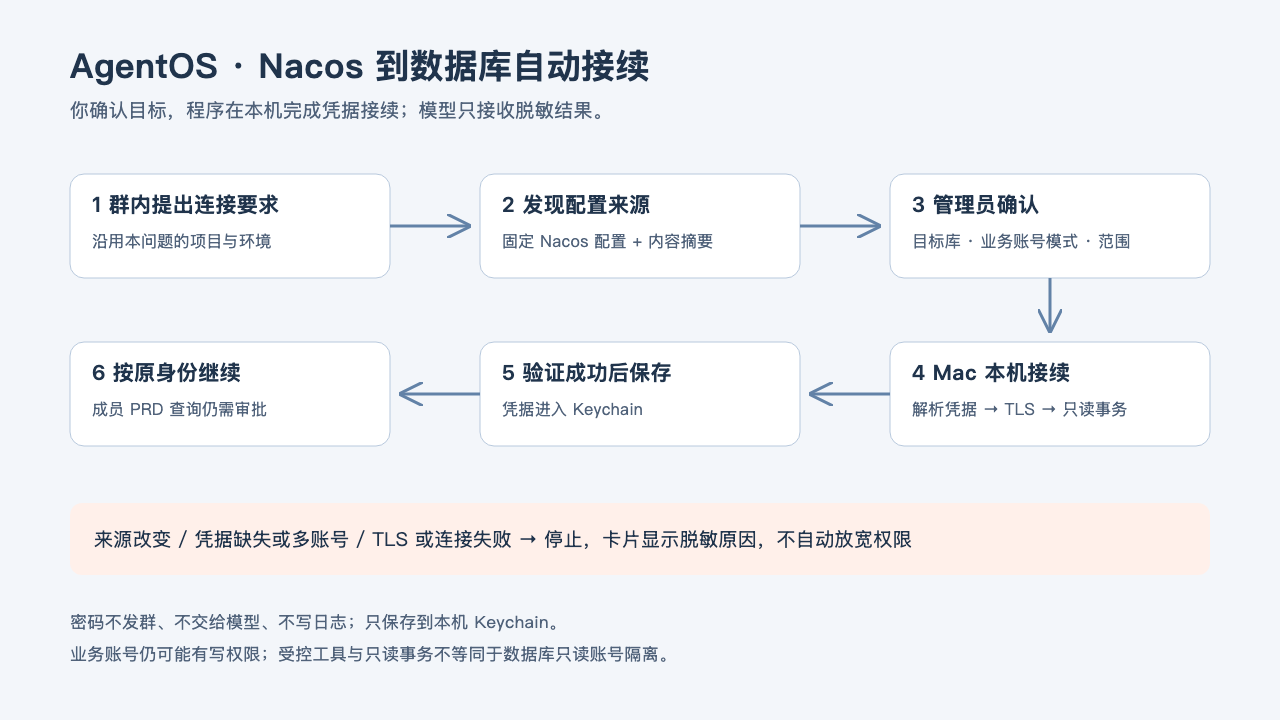
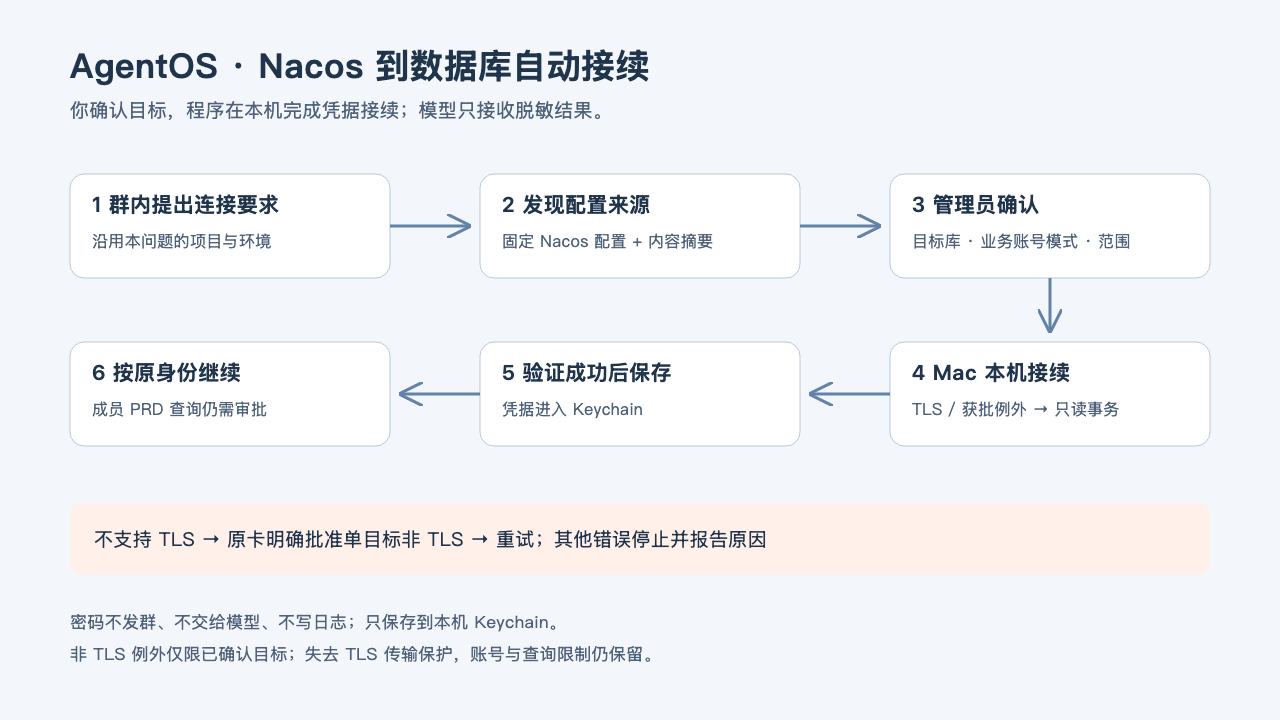
feat: require scoped approval for non-TLS database connections

Changed region(s): [[0.0625, 0.7333, 0.7188, 0.7639], [0.0625, 0.8861, 0.5312, 0.9167], [0.7188, 0.55, 0.875, 0.5806]]

diff --git a/src/control-plane/environment-enrollment.js b/src/control-plane/environment-enrollment.js
@@ -59,7 +59,7 @@ export async function requestEnrollment(context, turn) {
     if (old) return { notice: "等待管理员确认本机接入", enrollmentId: old.id };
     if (
       Object.values(state.environmentEnrollments).filter((e) =>
-        ["requested", "opening", "login_required"].includes(e.status),
+        ["requested", "opening", "login_required", "awaiting_tls_confirmation"].includes(e.status),
       ).length >= 5
     )
       throw new Error("待接入请求过多，请先完成已有请求");
@@ -88,11 +88,13 @@ export async function approveEnrollment(
   turn,
   launch = launchEnrollment,
 ) {
+  const withoutTls = turn.decision?.action === 'approve_environment_without_tls';
+  if(withoutTls && String(turn.content ?? '').replace(/<at\b[^>]*>.*?<\/at>/g,'').replace(/\s+/g,'').replace(/[。！!]$/,'').toUpperCase() !== '同意本目标使用非TLS') throw new Error('请回复本卡“同意本目标使用非TLS”，普通同意不授权关闭TLS');
   if (!isAdministrator(context.projects, turn))
     throw new Error("只有本群管理员可以确认新环境接入");
   const e = await context.store.transact((state) => {
     const e = Object.values(state.environmentEnrollments ?? {}).find(
-      (x) => x.questionId === turn.questionId && x.status === "requested",
+      (x) => x.questionId === turn.questionId && x.status === (withoutTls ? "awaiting_tls_confirmation" : "requested"),
     );
     if (
       !e ||
@@ -108,6 +110,10 @@ export async function approveEnrollment(
       )
     )
       throw new Error("本机已有接入窗口，请先完成");
+    if(withoutTls) {
+      if(!e.databaseSource || !e.diagnostic?.startsWith('错误码：TLS_UNSUPPORTED')) throw new Error('没有可确认的TLS例外');
+      e.tlsException={url:e.url,approverId:turn.senderId,profile:turn.profile,confirmedAt:new Date().toISOString()};
+    }
     e.status = "opening";
     e.approver = { profile: turn.profile, senderId: turn.senderId };
     return structuredClone(e);
@@ -115,10 +121,13 @@ export async function approveEnrollment(
   try {
     await launch(context, e);
   } catch (error) {
+    const diagnostic = failureDiagnostic(error);
+    const needsTlsConsent = e.databaseSource && !e.tlsException && diagnostic.startsWith('错误码：TLS_UNSUPPORTED');
     await context.store.transact((s) => {
-      s.environmentEnrollments[e.id].status = "failed";
-      s.environmentEnrollments[e.id].diagnostic = failureDiagnostic(error);
+      s.environmentEnrollments[e.id].status = needsTlsConsent ? "awaiting_tls_confirmation" : "failed";
+      s.environmentEnrollments[e.id].diagnostic = diagnostic;
     });
+    if(needsTlsConsent) return {enrollmentId:e.id,notice:`${diagnostic}\n\n目标：${e.tier.toUpperCase()} · ${e.url}。若接受此目标失去TLS传输保护，请管理员回复本卡“同意本目标使用非TLS”。仅此数据库例外，保留只读事务、查询限制及PRD审批；未确认前不重试。`};
     throw new Error(e.databaseSource ? "自动连接未完成。\n"+failureDiagnostic(error) : "本机窗口未能启动；需要已登录的macOS桌面，未保存新环境");
   }
   return {
@@ -179,7 +188,7 @@ export async function pollEnrollments(context, load = loadEnvironments) {
   }
   state = await context.store.read();
   for (const e of Object.values(state.environmentEnrollments ?? {})) {
-    if (!["requested", "opening", "login_required"].includes(e.status))
+    if (!["requested", "opening", "login_required", "awaiting_tls_confirmation"].includes(e.status))
       continue;
     const expired = Date.now() - Date.parse(e.createdAt) > 1800000;
     let event;
@@ -220,7 +229,7 @@ export async function pollEnrollments(context, load = loadEnvironments) {
     }
     await context.store.transact((s) => {
       const current = s.environmentEnrollments[e.id];
-      if (!["requested", "opening", "login_required"].includes(current.status))
+      if (!["requested", "opening", "login_required", "awaiting_tls_confirmation"].includes(current.status))
         return;
       const original = s.conversations.find((t) => t.id === e.turnId);
       const q = s.questions[e.questionId];

diff --git a/src/control-plane/questions.js b/src/control-plane/questions.js
@@ -16,7 +16,7 @@ export function attachQuestion(state, turn, event, projects) {
   // An explicit card reply wins over the broad topic root, especially for approval.
   const related = candidates.find(item => direct(item, event.reply_to))
     ?? candidates.find(item => event.root_id && (item.threadRootId === event.root_id || direct(item, event.root_id)));
-  const pendingSetup = related && Object.values(state.environmentEnrollments ?? {}).some(e => e.questionId === related.id && ['requested','opening','login_required'].includes(e.status));
+  const pendingSetup = related && Object.values(state.environmentEnrollments ?? {}).some(e => e.questionId === related.id && ['requested','opening','login_required','awaiting_tls_confirmation'].includes(e.status));
   const relatedTurn = related && state.conversations.find(t => t.id === related.latestTurnId);
   const q = related && (activeQuestionJob(questionJob(state, related.id)) || pendingSetup || (relatedTurn && pending(relatedTurn))) ? related : null;
   const question = q ?? { id: createId('QST'), rootTurnId: turn.id, messageId: turn.messageId, chatId: turn.chatId,
@@ -55,9 +55,9 @@ export function questionView(state, questionId, projects = {}) {
     if (outstanding) card.body.elements[0].columns[0].elements.push({ tag: 'markdown', text_size: 'notation', content: '已收到补充，负责人正在处理；任务进度仍显示在本卡。' });
   }
   const root = state.conversations.find((item) => item.id === q.rootTurnId);
-  const enrollment = Object.values(state.environmentEnrollments ?? {}).find(e => e.questionId === q.id && ['requested','opening','login_required'].includes(e.status));
+  const enrollment = Object.values(state.environmentEnrollments ?? {}).find(e => e.questionId === q.id && ['requested','opening','login_required','awaiting_tls_confirmation'].includes(e.status));
   const adminIds = (projects.ownerOpenIdsByProfile?.[q.profile] ?? []).filter(id => /^ou_[A-Za-z0-9]+$/.test(id));
-  const mention = enrollment ? (enrollment.status === 'requested' && adminIds.length ? { profile:q.profile,replyTo:q.messageId,text:adminIds.map(id => `<at user_id="${id}"></at>`).join(' ')+' 请确认本话题的新环境接入；登录仅在运行AgentOS的电脑完成。' } : null) : terminal ? (useJob
+  const mention = enrollment ? (['requested','awaiting_tls_confirmation'].includes(enrollment.status) && adminIds.length ? { profile:q.profile,replyTo:q.messageId,text:adminIds.map(id => `<at user_id="${id}"></at>`).join(' ')+(enrollment.status === 'awaiting_tls_confirmation' ? ' 请核对本卡的单目标非TLS例外；明确同意后才继续连接。' : ' 请确认本话题的新环境接入；登录仅在运行AgentOS的电脑完成。') } : null) : terminal ? (useJob
     ? jobTerminalMention({ ...job, senderId: q.senderId, originMessageId: q.messageId, originProfile: q.profile }, projects)
     : conversationTerminalMention({ ...turn, senderId: q.senderId, messageId: q.messageId, profile: q.profile, chatType: root.chatType })) : null;
   if (mention && q.replyInThread) mention.replyInThread = true;

diff --git a/src/control-plane/automatic-database-enrollment.js b/src/control-plane/automatic-database-enrollment.js
@@ -36,9 +36,11 @@ export async function automaticDatabaseEnrollment(context, enrollment, adapters=
  if(sha(content)!==x.contentHash)throw new Error('Nacos配置已改变，请重新发现并确认');
  const dbCred=databaseCredential(content,source); // local only; never model/state/event data
  const id=enrollment.id.toLowerCase();
- const target={kind:'mysql',projectId:e.projectId,tier:e.tier,host:source.host,port:source.port,database:source.database,tls:true,credentialRef:id,
+ const exception=enrollment.tlsException;
+ if(exception && (exception.url!==enrollment.url || exception.approverId!==enrollment.approver.senderId || exception.profile!==enrollment.approver.profile || !Number.isFinite(Date.parse(exception.confirmedAt)) || Date.now()-Date.parse(exception.confirmedAt)>1800000)) throw new Error('非TLS例外与当前目标或批准人不一致');
+ const target={kind:'mysql',projectId:e.projectId,tier:e.tier,host:source.host,port:source.port,database:source.database,tls:!exception,credentialRef:id,
   ownerOpenIdsByProfile:e.ownerOpenIdsByProfile,membersRead:e.membersRead,accountPolicy:'business-readonly',
-  businessAccountAuthorization:{approverId:enrollment.approver.senderId,confirmedAt:new Date().toISOString()},queries:{
+  businessAccountAuthorization:{approverId:enrollment.approver.senderId,confirmedAt:new Date().toISOString(),...(exception?{transportException:exception}:{})},queries:{
    connection_check:{reviewed:true,description:'测试数据库连接与只读事务',sql:CONNECTION_SQL,parameters:[],outputColumns:['database_name','checked_at'],maxRows:1,timeoutMs:5000},
    investigate:{reviewed:true,mode:'investigate',description:'在已确认数据库基础表中受控读取；业务账号使用只读事务',tables:['*'],parameters:[{name:'purpose',type:'string',maxLength:200}],maxRows:20,maxCalls:8,timeoutMs:5000}}};
  await (adapters.mysqlRead??mysqlRead)(target,target.queries.connection_check,[],dbCred);

diff --git a/test/environment-enrollment.test.js b/test/environment-enrollment.test.js
@@ -188,3 +188,14 @@ test('database discovery continues once into enrollment without opening a window
  assert.equal(state.jobs[0].connectionEnrollmentHandled,true);assert.match(turn.response,/管理员/);assert.doesNotMatch(JSON.stringify(requests),/never-copy/);
  await pollEnrollments(context);assert.equal(Object.keys(state.environmentEnrollments).length,1);
 });
+
+test('unsupported TLS produces pending scoped confirmation, never automatic downgrade',async t=>{
+ const {context,state,turn,admin}=await fixture(t);await requestEnrollment(context,turn);const e=Object.values(state.environmentEnrollments)[0];e.databaseSource={synthetic:true};
+ const first=await approveEnrollment(context,admin,async()=>{throw Object.assign(new Error('Server does not support secure connection'),{code:'HANDSHAKE_NO_SSL_SUPPORT'});});
+ assert.equal(e.status,'awaiting_tls_confirmation');assert.equal(e.tlsException,undefined);assert.match(first.notice,/同意本目标使用非TLS/);
+ for(const content of ['同意','不同意本目标使用非TLS'])await assert.rejects(approveEnrollment(context,{...admin,content,decision:{action:'approve_environment_without_tls'}},async()=>{}));
+ await assert.rejects(approveEnrollment(context,{...turn,content:'同意本目标使用非TLS',decision:{action:'approve_environment_without_tls'}},async()=>{}),/管理员/);
+ let calls=0;await approveEnrollment(context,{...admin,content:'同意本目标使用非TLS',decision:{action:'approve_environment_without_tls'}},async value=>{});
+ assert.equal(e.tlsException.url,e.url);assert.equal(e.tlsException.approverId,admin.senderId);
+ await assert.rejects(approveEnrollment(context,{...admin,content:'同意本目标使用非TLS',decision:{action:'approve_environment_without_tls'}},async()=>{calls++;}));assert.equal(calls,0);
+});

diff --git a/test/automatic-database-enrollment.test.js b/test/automatic-database-enrollment.test.js
@@ -28,3 +28,13 @@ test('automatic enrollment rejects wrong approver, changed source, namespace, ta
  }
  const f=await fixture(t);f.adapters.mysqlRead=async()=>{throw new Error('TLS failed');};await assert.rejects(automaticDatabaseEnrollment(f.context,f.enrollment,f.adapters));assert.equal(f.calls.includes('save'),false);
 });
+
+test('non-TLS exception is bound to exact target, approver and time; unrelated sources stay encrypted',async t=>{
+ for(const change of [e=>e.tlsException.url='mysql://other:3306/demo',e=>e.tlsException.approverId='ou_other',e=>e.tlsException.confirmedAt='2020-01-01']) {
+  const f=await fixture(t);f.enrollment.tlsException={url:f.enrollment.url,approverId:'ou_admin',profile:'owner',confirmedAt:new Date().toISOString()};change(f.enrollment);
+  await assert.rejects(automaticDatabaseEnrollment(f.context,f.enrollment,f.adapters));assert.equal(f.calls.includes('mysql'),false);
+ }
+ const f=await fixture(t);f.enrollment.tlsException={url:f.enrollment.url,approverId:'ou_admin',profile:'owner',confirmedAt:new Date().toISOString()};
+ f.adapters.mysqlRead=async e=>{assert.equal(e.tls,false);assert.equal(e.accountPolicy,'business-readonly');};
+ await automaticDatabaseEnrollment(f.context,f.enrollment,f.adapters);const cfg=JSON.parse(await readFile(f.file,'utf8'));assert.equal(cfg.environments['enr-synthetic'].tls,false);assert.equal(cfg.environments['enr-synthetic'].businessAccountAuthorization.transportException.url,f.enrollment.url);assert.equal(cfg.environments.source.kind,'nacos');
+});

diff --git a/src/control-plane/codex-conversation.js b/src/control-plane/codex-conversation.js
@@ -154,7 +154,7 @@ export async function decideWithCodex(input, options = {}) {
 }
 
 export function validateDecision(value) {
-  const actions = ['reply', 'create_task', 'clarify', 'approve', 'cancel', 'bind_project', 'approve_environment', 'request_environment_setup', 'approve_environment_setup'];
+  const actions = ['reply', 'create_task', 'clarify', 'approve', 'cancel', 'bind_project', 'approve_environment', 'request_environment_setup', 'approve_environment_setup', 'approve_environment_without_tls'];
   const intents = ['none', 'implementation', 'planning', 'analysis', 'verification', 'audit'];
   if (!value || !actions.includes(value.action) || !intents.includes(value.intent)) throw new Error('Unknown action or intent');
   for (const key of ['reply', 'instruction', 'jobId', 'projectId']) {

diff --git a/src/control-plane/conversations.js b/src/control-plane/conversations.js
@@ -325,7 +325,7 @@ export class ConversationService {
       }
       if (decision.action === 'request_environment_setup') return requestEnrollment(this.context, turn);
     }
-    if (decision.action === 'approve_environment_setup') return approveEnrollment(this.context, turn);
+    if (['approve_environment_setup','approve_environment_without_tls'].includes(decision.action)) return approveEnrollment(this.context, turn);
     if (decision.action === 'reply') return {};
     if (decision.action === 'bind_project') {
       if (!isAdministrator(projects, turn)) throw new Error('只有真人管理员可以绑定项目，项目负责人机器人不是管理员。');

diff --git a/docs/environment-access.md b/docs/environment-access.md
@@ -170,3 +170,9 @@ automatic-database-enrollment.js重新读取来源，核对环境指纹、项目
 ### TLS 握手诊断
 
 `TLS_UNSUPPORTED` / MySQL `HANDSHAKE_NO_SSL_SUPPORT` 表示服务器不支持要求的TLS加密连接，失败发生在查询之前；不代表密码错误。程序同时识别驱动错误码与脱敏错误分类，并在接入记录保存安全诊断。默认加密要求不变，不自动切换非TLS；应由运维启用TLS，或由管理员另行明确决定例外，不能只靠重试解决。
+
+### 原卡确认单目标非 TLS 例外
+
+只有自动接入实际返回TLS_UNSUPPORTED，申请才转为 `awaiting_tls_confirmation`。原卡展示目标和失去TLS传输保护的说明，管理员必须明确回复“同意本目标使用非TLS”。程序验证精确确认文本、群管理员、同一问题/群/项目、30分钟申请有效期，再记录 `tlsException` 的目标、批准人和时间。普通“同意”不生效，不会自动降级。
+
+新动作 `approve_environment_without_tls` 不能直接创建例外；必须有对应待确认TLS失败。自动连接再次核验来源Nacos负责人、配置内容摘要和目标，并检查例外绑定。获批后只对该目标设置tls=false，成功时将确认记录随入口保存；其他环境、只读事务、工具范围和成员PRD审批不变。失败和重复确认不会重复连接。旧版失败记录不自动获得例外，需要新申请重现TLS失败后确认。

diff --git a/docs/environment-access-verification.md b/docs/environment-access-verification.md
@@ -26,3 +26,7 @@
 ## 2026-09-16 Nacos本机凭据接续
 
 181/181回归通过。新增：同文件私有凭据解析、外部引用和多账号拒绝、来源/目标/命名空间/批准人/有效期校验、连接失败不保存、成功后Keychain适配器调用及配置/状态不含凭据。自动测试使用虚构凭据和连接适配器，不能替代真实PRD验收。新流程图与管理员确认边界同步。真实连接由群里确认卡触发，本次维护不代用户发送确认消息。
+
+## 2026-09-16 单目标非TLS确认
+
+184/184回归通过。新增真实错误码触发待确认、未确认不降级、普通同意/否定/普通成员拒绝、重复批准拒绝、目标/批准人/时间绑定及仅目标tls=false验证。测试使用虚构连接适配器；真实PRD连接需新卡确认后验证。该配置例外记录是明确管理员授权，不是数据库只读账号隔离或传输加密保障。
